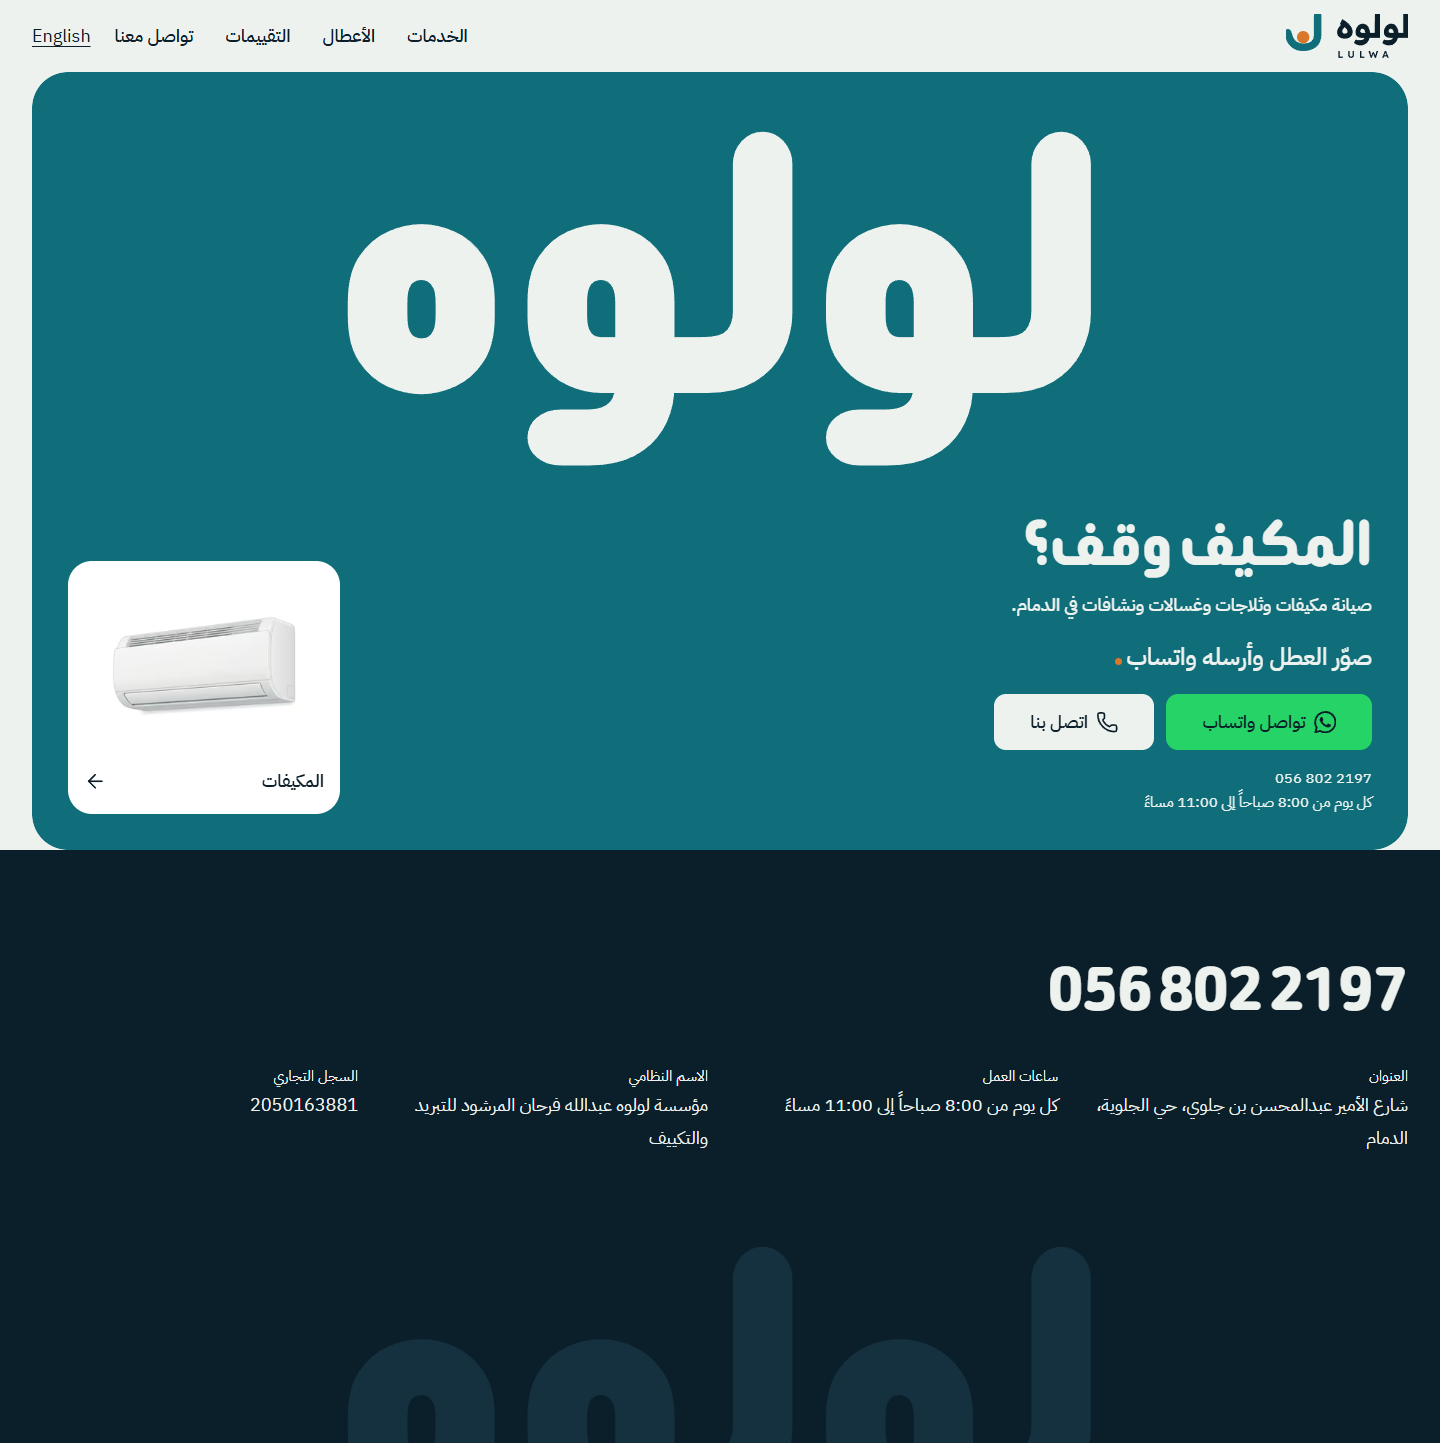
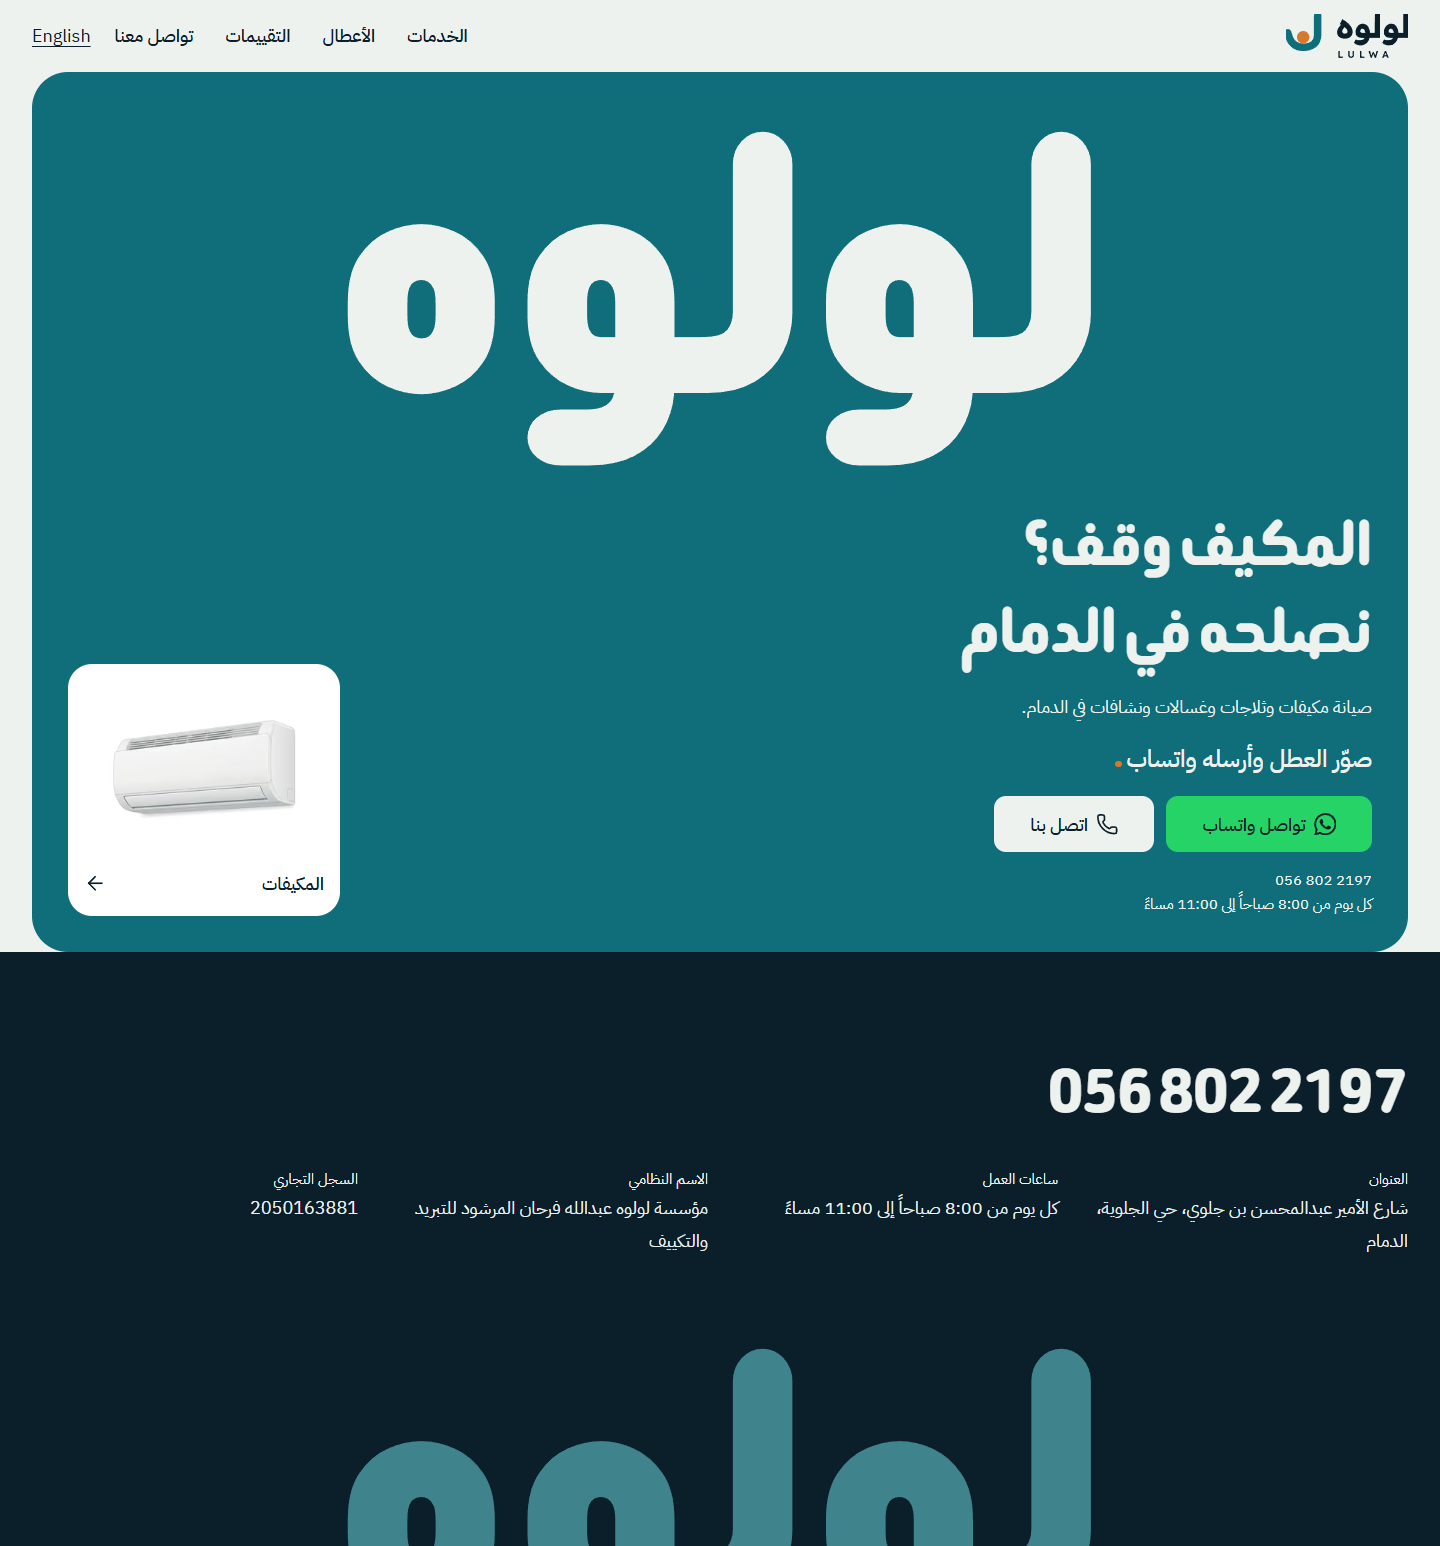
phase 3: chrome and hero

diff --git a/tests/headlines.spec.ts b/tests/headlines.spec.ts
@@ -9,15 +9,9 @@ for (const path of allRoutes()) {
       await page.setViewportSize({ width, height: 900 });
       const long = await page.evaluate(() =>
         [...document.querySelectorAll('h1, h2, h3')].flatMap((heading) => {
-          // The hero's support sentence sits in the h1 at body size (data-support): it is not a display line.
-          const walker = document.createTreeWalker(heading, NodeFilter.SHOW_TEXT);
-          const lines = new Set<number>();
-          for (let node = walker.nextNode(); node; node = walker.nextNode()) {
-            if (node.parentElement?.closest('[data-support]')) continue;
-            const range = document.createRange();
-            range.selectNodeContents(node);
-            for (const r of range.getClientRects()) if (r.width > 0) lines.add(Math.round(r.top / 8));
-          }
+          const range = document.createRange();
+          range.selectNodeContents(heading);
+          const lines = new Set([...range.getClientRects()].filter((r) => r.width > 0).map((r) => Math.round(r.top / 8)));
           return lines.size > 2 ? [`${heading.textContent?.trim()} (${lines.size})`] : [];
         }),
       );

diff --git a/src/content/ar.ts b/src/content/ar.ts
@@ -97,6 +97,7 @@ export const ar: Content = {
     seo: { title: `تصليح مكيفات وثلاجات وغسالات في الدمام | ${name}`, description: 'ورشة صيانة مسجلة في حي الجلوية بالدمام: مكيفات، ثلاجات، غسالات أوتوماتيك ونشافات. صوّر العطل وأرسله واتساب.' },
     hero: {
       question: 'المكيف وقف؟',
+      service: 'نصلحه في الدمام',
       answer: 'صوّر العطل وأرسله واتساب',
       support: 'صيانة مكيفات وثلاجات وغسالات ونشافات في الدمام.',
       homeVisitLine: '',

diff --git a/src/content/en.ts b/src/content/en.ts
@@ -97,6 +97,7 @@ export const en: Content = {
     seo: { title: `AC, fridge and washing machine repair in Dammam | ${name}`, description: 'A registered repair shop in Al-Jalawiyah, Dammam: air conditioners, fridges, automatic washing machines and dryers. Photograph the fault and send it on WhatsApp.' },
     hero: {
       question: 'AC gave up?',
+      service: 'Dammam repair',
       answer: 'Photograph the fault and send it on WhatsApp',
       support: 'Air conditioner, fridge, washing machine and dryer repair in Dammam.',
       homeVisitLine: '',

diff --git a/src/content/types.ts b/src/content/types.ts
@@ -44,6 +44,8 @@ export type Content = {
     seo: Seo;
     hero: {
       question: string;
+      /** Second part of the h1: carries the city, in plain sight. */
+      service: string;
       answer: string;
       support: string;
       /** Empty until the client confirms home visits (docs/FOR-AMEER.md). Render nothing when empty. */

diff --git a/src/styles/tokens.css b/src/styles/tokens.css
@@ -84,7 +84,6 @@
   --duration-rise: 500ms;
   --stagger: 70ms;
   --rise: 1.25rem;
-  --seam-rise: 16%; /* how far below rest the teal field starts */
   --focus-width: 3px;
 }
 

diff --git a/docs/PHASES.md b/docs/PHASES.md
@@ -8,6 +8,23 @@ Each phase appends a dated entry: what shipped, what is left, decisions made.
 
 ## Log
 
+### 2026-11-01 · Phase 3: Chrome and hero
+- Shipped: top bar, phone menu, language link to the exact twin, footer, Ink bottom bar on phones, hero in Arabic and English, one generated tile image. Screens in `docs/shots/phase-3/`, looked at and fixed.
+- Green: T7, T12, T13 on `/` and `/en`. Also T6, T21, T19, T22, typecheck, and for these two pages T8, T10, T11 and the T9 language and menu cases. The full `test:contract` was not run; other routes do not exist yet.
+- Lighthouse, phone, 3 runs, local preview, median: `/` 100/100/96/100, LCP 1.37 s, TBT 0, CLS 0.002, 84 KB. `/en` 100/100/96/100, LCP 1.21 s, TBT 0, CLS 0, 48 KB. Best practices stays at 96 because `/favicon.ico` 404s until Phase 8. Measured one word of English copy before the final build. Not a guaranteed-clean machine.
+- Hero follows the Reference update: rounded teal panel, giant name, h1 low on the start side, two buttons, one product tile. Not the horizon mock.
+- Decided: h1 is two short display lines with the city in it (`المكيف وقف؟ / نصلحه في الدمام`, `AC gave up? / Dammam repair`). The prompt asked for the support sentence inside the h1, but that breaks T11 and the inspector at phone widths, so it stays a visible `<p>` right after. Nothing is hidden.
+- Decided: `hero.answer` shows until `homeVisitLine` is filled; the template already prefers that field, so the swap is copy only. No visit is promised.
+- Decided: phone menu is a native `popover`, not a JS island: Esc, light dismiss and focus return with 0 KB of JS. The prompt's "small vanilla island" is not needed.
+- Decided: the seam is a strip of pearl lifting off the top of a teal panel, so the panel is always a real teal ground. Off under reduced motion, h1 still.
+- Decided: `--text-giant` added for the name, sized in `cqi` to its container and capped by `svh`. A sixth size, on purpose, because the Reference update asks for it. English pages may fetch Plex (25 KB) for the legal name and the language link.
+- Decided: the logo's pearl stays copper in the top bar beside the hero's pearl, so two copper marks are in view. Logo artwork is treated as outside the one-per-view rule.
+- Logo: no vector wordmark exists, so `Logo.astro` holds the real mark SVG plus a wordmark traced from `lulwa-logo-horizontal.png`. Clean at header size, not for large use.
+- Image: tile exported once with Pillow to `public/images/`, listed in `src/images/provenance.json` as generated. Phase 4's sharp pipeline takes this over. One image used, 13 or so left in the quota window.
+- Worked alone, no Sonnet builders: small file set. Two agy reviews ran. Code review: no real bugs; `aria-expanded`, duplicate nav label and physical inset findings do not apply (popover exposes state, only one nav shows at a time, Tailwind's `inset-x` is logical). Arabic review: rejected its brand "spelling fix" (لولوه is the legal name) and `فورية` (an invented claim); the rest went to `docs/ARABIC-REVIEW.md`.
+- T20 inspector still reports, by design for now, 3 FAIL: `few-pictures` and `still-page` (the page is hero and footer until Phase 4) and `covered-text` (the phone bar passes over the giant word while scrolling; body padding clears it at the end). WARN: `no-footage`, `off-centre`, `grey-body`. Lint reports 4 emoji in review texts, waiting on the call in `docs/FOR-AMEER.md`. T20 is owed by Phase 9.
+- Left: nav and tile links 404 until Phases 5 and 6. Seam and press feedback checked in code and screenshots, not on a real phone. `/ponytail:ponytail-review` run by eye only.
+
 ### 2026-11-01 · Phase 2: Content and truth
 - Shipped: `src/content/types.ts` with all 11 page groups (home, services, faults, areas, brands, about, contact, reviews, work, legal, blog); full `ar.ts` and `en.ts`. T6 and T21 green (15 tests), typecheck clean, build clean.
 - Written by the lead alone, no agy or agents: the copy is short and almost all of it is gated by PRODUCT.md, so verifying agy output would have cost more than writing it. Plain-English twin written from the Arabic meaning, not literally.

diff --git a/docs/FOR-AMEER.md b/docs/FOR-AMEER.md
@@ -27,3 +27,12 @@ Questions, verifications and access needed, gathered while Ameer sleeps. Nothing
 - **Privacy, terms and cookie text** are Claude drafts, based on the design (form to Sheet and email, analytics after interaction). Check against what actually runs, ideally with someone legal. "We do not sell your data" and the Saudi-law line are mine.
 - **Blog:** the 3 old posts are replaced by short, generic how-to posts on the same slugs. The old posts were full of unsourced claims. Technician to confirm the advice (filter, drain hose, lint) is right.
 - Arabic doubts for the native reader: `docs/ARABIC-REVIEW.md`.
+
+## Phase 3 (2026-11-01)
+- **Hero OK?** `docs/shots/phase-3/`. It follows your reference: teal panel, giant لولوه / LULWA, one AC tile.
+- **Home-visit swap:** the hero says `صوّر العطل وأرسله واتساب` / `Photograph the fault and send it on WhatsApp`, which are confirmed facts. When the client confirms visits, add a dated line to `PRODUCT.md`, then set `home.hero.homeVisitLine` to `نجيك لحد بيتك` / `We come to you` in `src/content/ar.ts` and `en.ts`. It replaces the line with no code change. `home.hero.service` could then be reviewed too.
+- **Hero wording I added, please check:** `نصلحه في الدمام` and `Dammam repair`. The English is short only because it must fit two lines at 320 px, and it reads a little stiff.
+- **Generated image:** the AC in the tile is AI-generated and unbranded, recorded in `src/images/provenance.json`. It links to the AC service page and is never captioned as our work.
+- **Logo wordmark:** only PNGs exist, so the website's is traced from one. Fine at header size. If you have a vector, it can replace the path in `src/components/Logo.astro`.
+- **Two copper dots in view:** the logo's pearl and the hero's pearl. I read the logo as exempt from the one-per-view rule. Tell me if you want a one-colour logo in the bar.
+- **Links:** Services, Faults, Reviews, Contact and the tile 404 until Phases 5 and 6 build those pages.

diff --git a/docs/ARABIC-REVIEW.md b/docs/ARABIC-REVIEW.md
@@ -9,3 +9,14 @@ Written by Claude, not checked by a native Saudi reader. Nothing here is a fact 
 - `نرد عليك` and `نتفق معك على الخطوة التالية`: deliberately vague, since no response time or visit is confirmed.
 - Policies (`legal`): formal-spoken mix, drafted by Claude. Need a proper review, ideally legal.
 - Rule held everywhere: لولوه is never the subject of a coming or visiting verb.
+
+## Phase 3: hero and chrome
+agy reviewed these on 1 Nov 2026. Its suggestions are unverified and nothing was changed. Native reader to decide:
+- `المكيف وقف؟`: agy prefers `المكيف طفا عليك؟` or `المكيف خربان؟`. This line is Ameer's own, so keep it unless the reader objects.
+- `نصلحه في الدمام`: new line in the h1, written to carry the city. Natural?
+- `تواصل واتساب`: agy says it lacks a preposition and suggests `تواصل عبر الواتساب`. The design direction specifies the current wording.
+- `صوّر العطل وأرسله واتساب`: agy suggests `وأرسله على الواتساب`.
+- `كل يوم من 8:00 صباحاً إلى 11:00 مساءً`: agy suggests `يومياً من`.
+- `العنوان` or `الموقع`, `ساعات العمل` or `أوقات العمل`.
+- `الاسم النظامي`: agy suggests `الاسم التجاري`, but that is a different thing from the legal name. Check the right term.
+- `الأعطال` in the nav: agy suggests `الأعطال الشائعة`. `التقييمات`: agy suggests `آراء العملاء`.

diff --git a/CLAUDE.md b/CLAUDE.md
@@ -61,7 +61,7 @@ Keep this list in sync with `package.json`.
 - `pnpm test:contract`: builds, runs T1 to T22, prints each against the phase that owes it. Add `--fast` to skip Lighthouse. About 20 minutes while pages are missing.
 - `pnpm test:e2e`: Playwright only, on the built site, in installed Edge. `pnpm test:e2e tests/nap.spec.ts` for one.
 - `pnpm test:photos` (T22), `pnpm test:taste` (T20), `pnpm test:lighthouse` (T18)
-- `python scripts/subset-fonts.py <raw font dir>`: rebuilds `public/fonts`. `node scripts/sink-shots.mjs`: kitchen sink screenshots.
+- `python scripts/subset-fonts.py <raw font dir>`: rebuilds `public/fonts`. `node scripts/sink-shots.mjs`: kitchen sink screenshots. `node scripts/phase-shots.mjs <n>`: home screenshots to `docs/shots/phase-<n>/`, after `pnpm build`.
 
 ## How work happens
 
